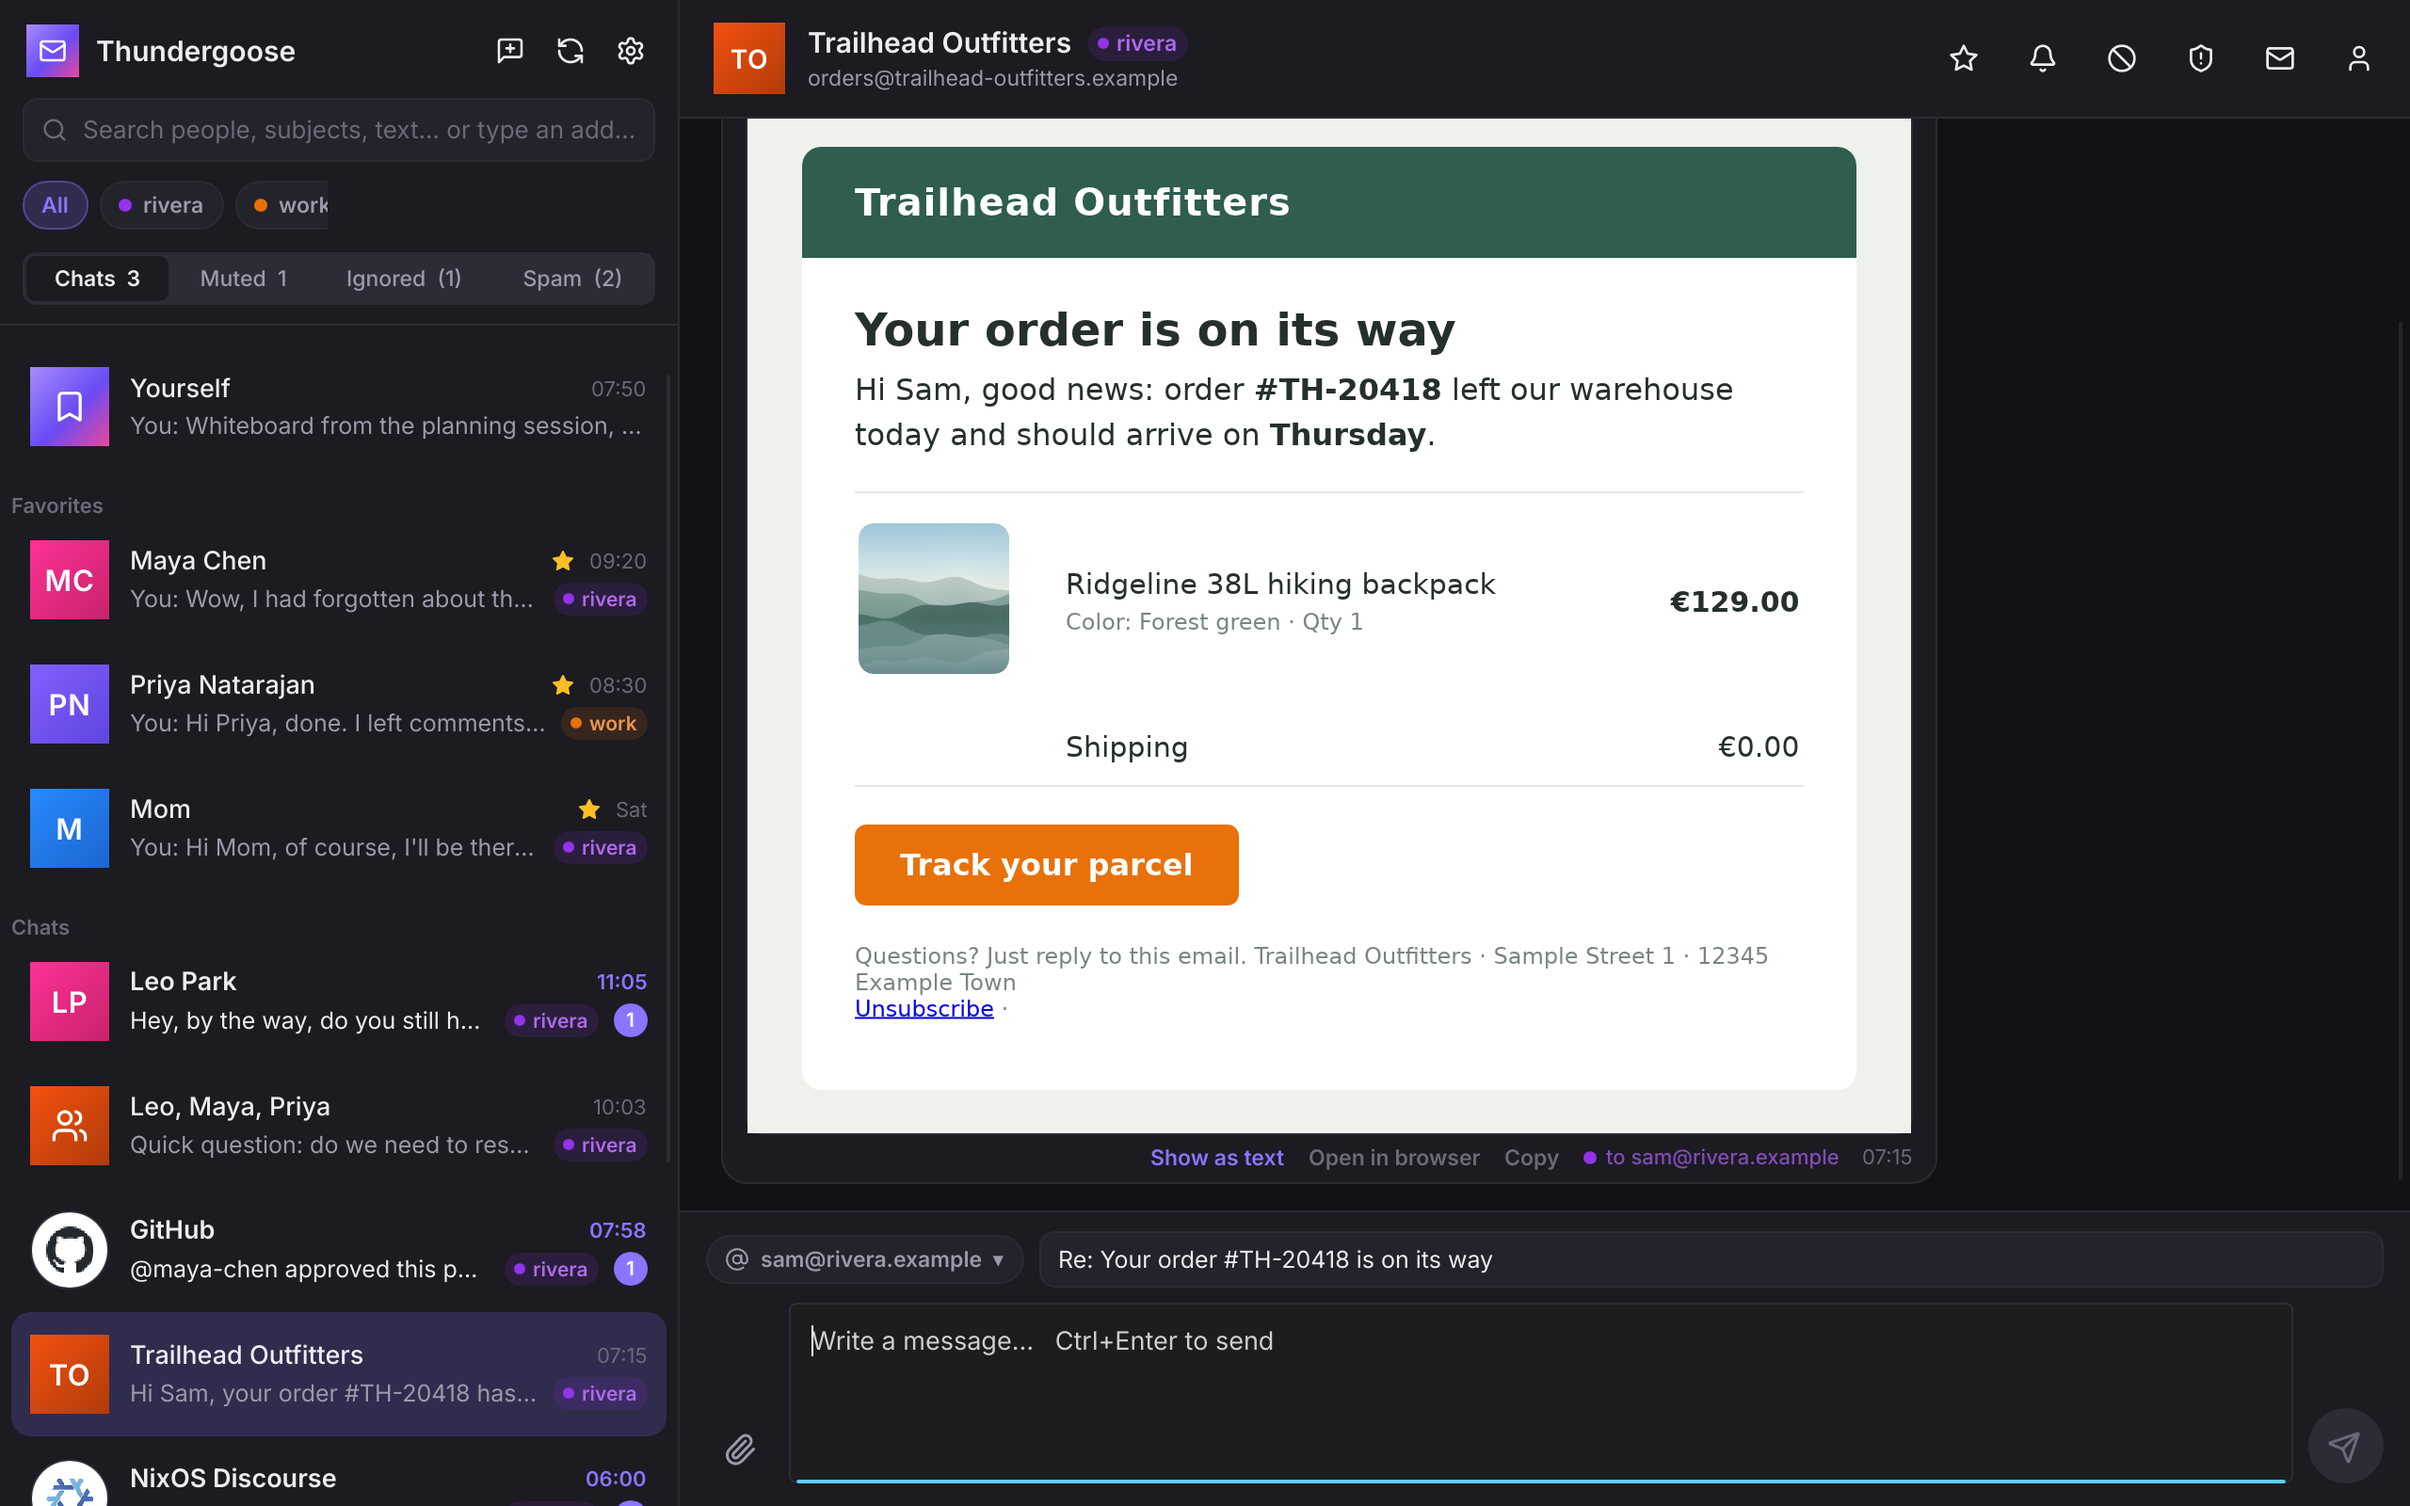
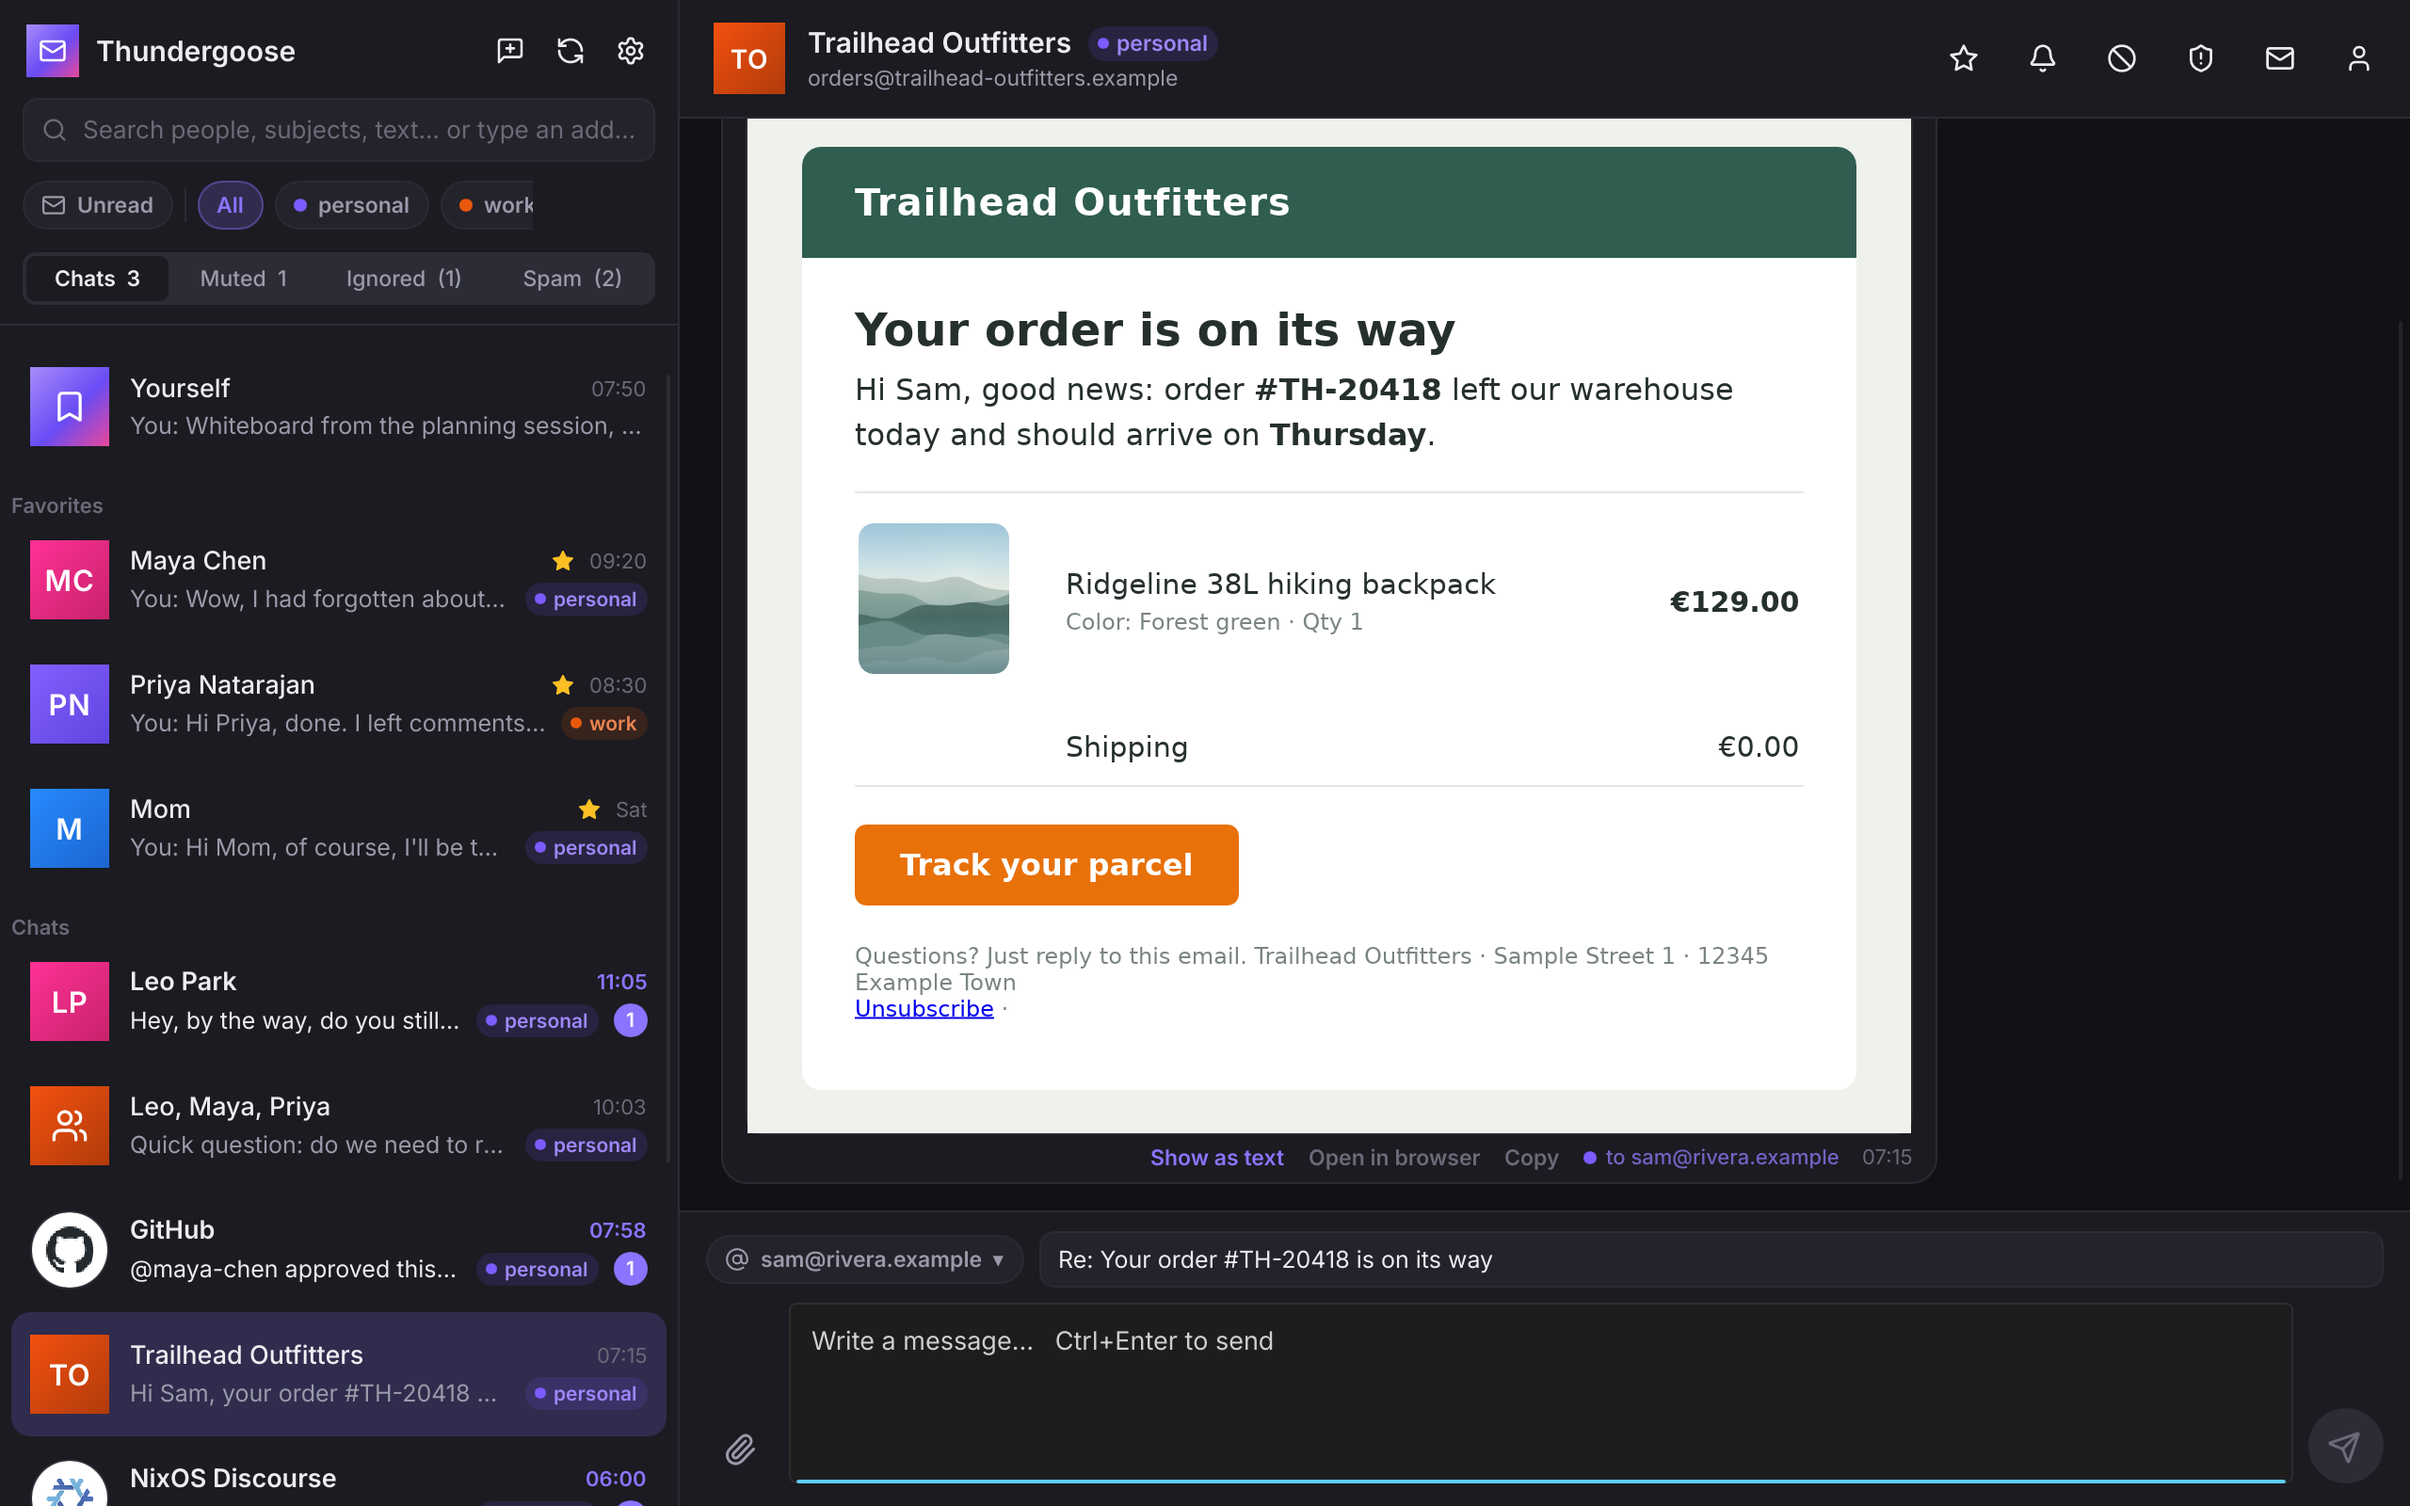
Name and color account tags; Unread filter for every tab

diff --git a/src/app.rs b/src/app.rs
@@ -140,6 +140,24 @@ fn tab_for(f: Flags, junk: bool) -> i32 {
     }
 }
 
+/// Colors offered for account tags.
+const TAG_COLORS: [(u8, u8, u8); 16] = [
+    (0x7c, 0x5c, 0xff), (0x4f, 0x46, 0xe5), (0x25, 0x63, 0xeb), (0x0e, 0xa5, 0xe9),
+    (0x06, 0xb6, 0xd4), (0x0d, 0x94, 0x88), (0x16, 0xa3, 0x4a), (0x65, 0xa3, 0x0d),
+    (0xca, 0x8a, 0x04), (0xd9, 0x77, 0x06), (0xea, 0x58, 0x0c), (0xdc, 0x26, 0x26),
+    (0xe1, 0x1d, 0x48), (0xdb, 0x27, 0x77), (0xc0, 0x26, 0xd3), (0x64, 0x74, 0x8b),
+];
+
+fn tag_color(i: usize) -> slint::Color {
+    let (r, g, b) = TAG_COLORS[i % TAG_COLORS.len()];
+    slint::Color::from_rgb_u8(r, g, b)
+}
+
+/// The color of an account's tags and chips: the user's pick, or one derived from the address.
+fn account_color(a: &Account) -> slint::Color {
+    a.tag_color.map(tag_color).unwrap_or_else(|| hue(&a.id))
+}
+
 fn hue(key: &str) -> slint::Color {
     let h = key.bytes().fold(5381u32, |h, b| h.wrapping_mul(33) ^ b as u32);
     let (r, g, b) = HUES[(h % HUES.len() as u32) as usize];
@@ -241,6 +259,8 @@ pub struct Core {
     names: HashMap<String, String>,
 
     filter: Option<usize>,
+    /// Only conversations with unread mail, in whichever tab.
+    unread_only: bool,
     search: String,
     peers: Vec<PeerRow>,
     /// Synthetic "write to <address>" entry at the top of the list.
@@ -364,6 +384,9 @@ impl Core {
     /// Short name of one of the own addresses, as on the account chips ("work", "gmail"); the
     /// local part when two own addresses share a domain.
     fn addr_label(&self, addr: &str) -> String {
+        if let Some(tag) = self.account_index_for(addr).and_then(|i| self.accounts[i].tag.as_deref()).map(str::trim).filter(|t| !t.is_empty()) {
+            return tag.to_string();
+        }
         let domain_label = |a: &str| a.rsplit('@').next().unwrap_or(a).split('.').next().unwrap_or(a).to_lowercase();
         let label = domain_label(addr);
         let shared = self.own_addresses().iter().filter(|(_, a)| domain_label(a) == label).count() > 1;
@@ -372,7 +395,7 @@ impl Core {
 
     fn addr_color(&self, addr: &str) -> slint::Color {
         match self.account_index_for(addr) {
-            Some(i) => hue(&self.accounts[i].id),
+            Some(i) => account_color(&self.accounts[i]),
             None => hue(addr),
         }
     }
@@ -412,6 +435,10 @@ impl Core {
         self.suggest = None;
         if q.is_empty() {
             rows.retain(|r| tab_of(r) == self.tab);
+            if self.unread_only {
+                // The open conversation stays while you read it.
+                rows.retain(|r| r.unread > 0 || self.selected.as_deref() == Some(r.peer.as_str()));
+            }
         } else {
             // Search looks through every tab.
             let text_hits = if q.chars().count() >= 3 { self.store.peers_matching(&q) } else { HashSet::new() };
@@ -531,7 +558,10 @@ impl Core {
                     id: a.id.as_str().into(),
                     email: a.email.as_str().into(),
                     label: a.short_label().into(),
-                    hue: hue(&a.id),
+                    hue: account_color(a),
+                    tag: a.short_label().into(),
+                    default_tag: a.default_label().into(),
+                    tag_color: a.tag_color.map_or(-1, |i| i as i32),
                     online: st.online,
                     busy: st.busy,
                     needs_login: st.needs_login,
@@ -1177,6 +1207,15 @@ impl Core {
         });
     }
 
+    fn account_tags_changed(&mut self) {
+        self.save_accounts();
+        self.refresh_status();
+        self.refresh_peers();
+        if self.selected.is_some() {
+            self.load_conversation(false);
+        }
+    }
+
     fn save_accounts(&self) {
         if let Err(e) = save_json(&self.paths.accounts(), &self.accounts, false) {
             eprintln!("cannot save accounts: {e}");
@@ -1185,7 +1224,9 @@ impl Core {
 
     fn add_account(&mut self, acct: Account) {
         if let Some(existing) = self.accounts.iter_mut().find(|a| a.id == acct.id) {
-            *existing = acct.clone();
+            // A re-import keeps what the user chose for the tags.
+            let (tag, color) = (existing.tag.clone(), existing.tag_color);
+            *existing = Account { tag: acct.tag.clone().or(tag), tag_color: acct.tag_color.or(color), ..acct.clone() };
             if let Some(w) = self.workers.get(&acct.id) {
                 let _ = w.send(Cmd::Reconnect);
             }
@@ -1258,7 +1299,7 @@ impl Core {
         }
         let save_sent = crate::config::issuer_for_host(&imap.host).is_none();
         let name = app.get_add_name().trim().to_string();
-        Ok((Account { id: email.clone(), email, name, aliases: Vec::new(), imap, smtp, auth, save_sent }, password))
+        Ok((Account { id: email.clone(), email, name, aliases: Vec::new(), imap, smtp, auth, save_sent, tag: None, tag_color: None }, password))
     }
 
     fn add_status(&self, text: impl Into<String>, error: bool, busy: bool) {
@@ -1446,6 +1487,7 @@ pub fn start(demo: bool) -> Result<(AppWindow, Vec<slint::Timer>), slint::Platfo
     let ui = AppWindow::new()?;
     let app = ui.global::<App>();
     app.set_version(env!("CARGO_PKG_VERSION").into());
+    app.set_tag_colors(ModelRc::new(VecModel::from((0..TAG_COLORS.len()).map(tag_color).collect::<Vec<_>>())));
     app.set_notify_desktop(settings.notify_desktop);
     app.set_notify_sound(settings.notify_sound);
     app.set_profile_path(profile.as_ref().map(|p| p.display().to_string()).unwrap_or_default().into());
@@ -1468,6 +1510,7 @@ pub fn start(demo: bool) -> Result<(AppWindow, Vec<slint::Timer>), slint::Platfo
         store,
         names: HashMap::new(),
         filter: None,
+        unread_only: false,
         search: String::new(),
         peers: Vec::new(),
         suggest: None,
@@ -1557,6 +1600,13 @@ pub fn start(demo: bool) -> Result<(AppWindow, Vec<slint::Timer>), slint::Platfo
             if let Some(key) = key {
                 c.open_peer(key);
             }
+        })
+    });
+    app.on_set_unread_only(|on| {
+        with_core(|c| {
+            c.unread_only = on;
+            c.ui().global::<App>().set_unread_only(on);
+            c.refresh_peers();
         })
     });
     app.on_filter(|i| {
@@ -1978,6 +2028,21 @@ pub fn start(demo: bool) -> Result<(AppWindow, Vec<slint::Timer>), slint::Platfo
         })
     });
     app.on_remove_account(|id| with_core(|c| c.remove_account(&id)));
+    app.on_set_account_tag(|id, tag| {
+        with_core(|c| {
+            let Some(a) = c.accounts.iter_mut().find(|a| a.id == id.as_str()) else { return };
+            let tag = tag.trim().to_string();
+            a.tag = (!tag.is_empty()).then_some(tag);
+            c.account_tags_changed();
+        })
+    });
+    app.on_set_account_color(|id, i| {
+        with_core(|c| {
+            let Some(a) = c.accounts.iter_mut().find(|a| a.id == id.as_str()) else { return };
+            a.tag_color = (i >= 0).then_some(i as usize);
+            c.account_tags_changed();
+        })
+    });
     app.on_appearance_changed(|| {
         with_core(|c| {
             let ui = c.ui();

diff --git a/src/demo.rs b/src/demo.rs
@@ -171,7 +171,7 @@ fn person(i: usize) -> Person {
 
 fn account(name: &str, email: &str) -> Account {
     let server = |host: &str, port| Server { host: host.into(), port, security: Security::Tls, username: email.into() };
-    Account { id: email.into(), email: email.into(), name: name.into(), aliases: Vec::new(), imap: server("imap.example", 993), smtp: server("smtp.example", 465), auth: Auth::Password, save_sent: false }
+    Account { id: email.into(), email: email.into(), name: name.into(), aliases: Vec::new(), imap: server("imap.example", 993), smtp: server("smtp.example", 465), auth: Auth::Password, save_sent: false, tag: None, tag_color: None }
 }
 
 /// A small, valid one-page PDF.
@@ -306,7 +306,11 @@ pub fn prepare() {
     }
     std::env::set_var("THUNDERGOOSE_HOME", &dir);
     let paths = Paths::new();
-    let accounts = vec![account("Sam Rivera", PEOPLE[ME].1), account("Sam Rivera", PEOPLE[WORK].1)];
+    let mut accounts = vec![account("Sam Rivera", PEOPLE[ME].1), account("Sam Rivera", PEOPLE[WORK].1)];
+    // Tags named and colored by the user.
+    accounts[0].tag = Some("personal".into());
+    accounts[0].tag_color = Some(0);
+    accounts[1].tag_color = Some(10);
     let _ = save_json(&paths.accounts(), &accounts, false);
     let _ = save_json(&paths.settings(), &Settings::default(), false);
     if let Err(e) = seed(&paths, &accounts) {

diff --git a/src/config.rs b/src/config.rs
@@ -46,10 +46,23 @@ pub struct Account {
     pub auth: Auth,
     /// Upload sent mail to the Sent folder ourselves (Gmail and Office 365 do it server-side).
     pub save_sent: bool,
+    /// The user's name for the account's tags and chips; the domain when unset.
+    #[serde(default)]
+    pub tag: Option<String>,
+    /// Index into the tag palette; derived from the address when unset.
+    #[serde(default)]
+    pub tag_color: Option<usize>,
 }
 
 impl Account {
     pub fn short_label(&self) -> String {
+        if let Some(tag) = self.tag.as_deref().map(str::trim).filter(|t| !t.is_empty()) {
+            return tag.to_string();
+        }
+        self.default_label()
+    }
+
+    pub fn default_label(&self) -> String {
         let domain = self.email.rsplit('@').next().unwrap_or(&self.email);
         domain.split('.').next().unwrap_or(domain).to_string()
     }

diff --git a/src/tb.rs b/src/tb.rs
@@ -283,7 +283,7 @@ pub fn import(profile: &Path, primary_password: &str) -> Result<Import, String> 
             }
         }
         let save_sent = issuer_for_host(&imap.host).is_none();
-        accounts.push(Account { id: email.clone(), email, name, aliases, imap, smtp, auth, save_sent });
+        accounts.push(Account { id: email.clone(), email, name, aliases, imap, smtp, auth, save_sent, tag: None, tag_color: None });
     }
     Ok(Import { accounts, secrets, warnings })
 }

diff --git a/README.md b/README.md
@@ -51,7 +51,10 @@ from and which one gets it; the bubbles show the way it went.</td>
 
 - **Which address, at a glance.** Every chat carries a colored tag for the address(es) of yours
   that contact writes to ("● work", "● gmail", in the colors of the account chips), and every
-  message says *to* or *from* which of your addresses it went.
+  message says *to* or *from* which of your addresses it went. Name the tags and pick their
+  colors (16 to choose from) in *Settings → Accounts*.
+- **Unread filter.** The *Unread* chip narrows any tab (Chats, Muted, Ignored, Spam) to
+  conversations with unread mail.
 - **Favorites, Muted, Ignored, Spam, one click away.** Hover a chat in the list for ☆ / 🔔 / ⊘ /
   🛡 quick buttons, or use the chat header or the right-click menu. *Yourself* is pinned on top. Favorites are pinned on top; the rest
   is sorted by newest message. *Muted* chats move to their own tab and still count unread mail
